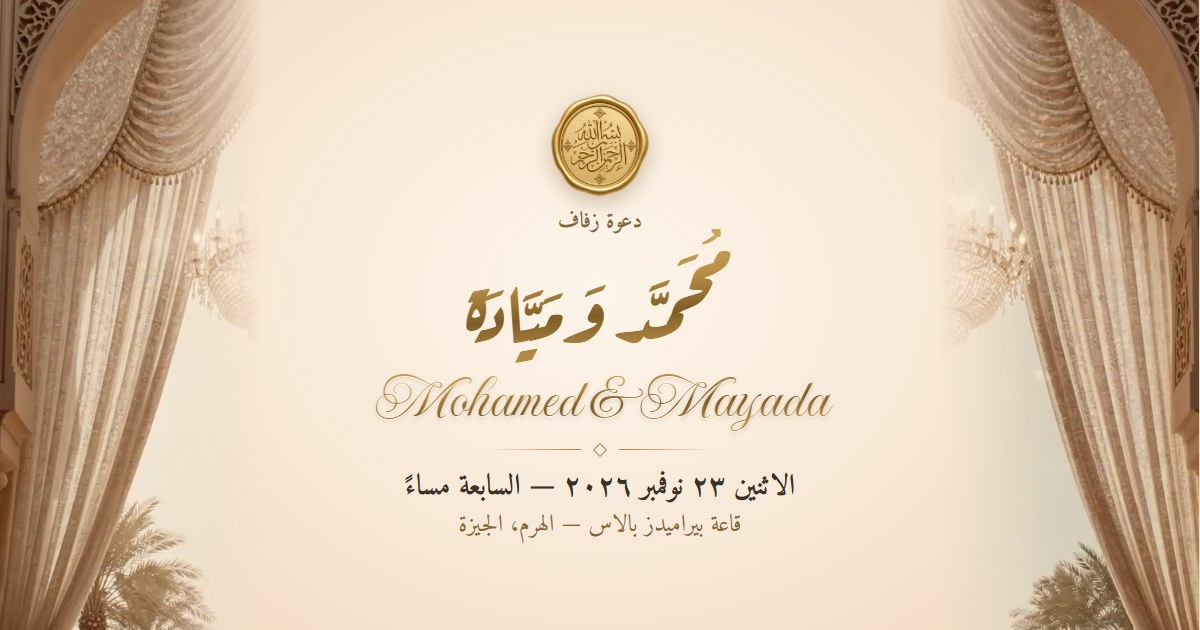
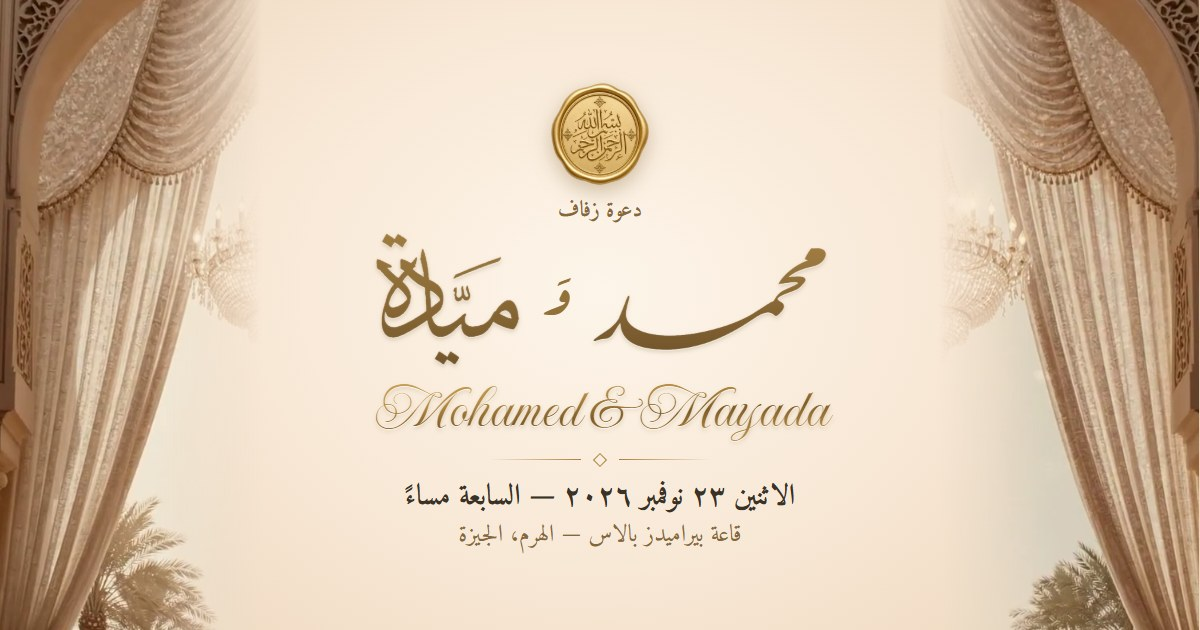
r1X0Neh بطلب المالك: اسم "محمد" واسم "ميادة" بالخط اليدوي من الصورتين اللي بعتهم بدل خط الرقعة — متقصوصين من غير خلفية (ولوجو القناة اللي جنب ميادة اتشال)، متكبّرين 4x بحواف ناعمة، ولونهم دهبي زي كلام الدعوة. على الستاير (كبار، وبينهم "وَ") وفي كارت القوس، وكارت لينك المشاركة اتعمل من جديد بيهم. الإ
Claude-Session: https://claude.ai/code/session_01VKo1mDPNtVn8Qfu3XE46sB

diff --git a/custom-invitations/r1X0Neh.js b/custom-invitations/r1X0Neh.js
@@ -19,16 +19,19 @@ const NAMES = {
 
 // خانات القالب: [السيلكتور، عربي، إنجليزي]
 const R = (rec, f) => `#${rec} [field="${f}"]`;
+// أسامي الخط اليدوي (صور المالك 2026-11-09): متقصوصة من غير خلفية، متكبّرة 4x ودهبي زي كلام الدعوة (scratch r1/cal/cut.py)
+const IMG_MO = `<img class="r1-ni r1-ni-mo" src="${asset(`/custom/${SHORT}/mohamed.webp`)}" alt="محمد" decoding="async">`;
+const IMG_MA = `<img class="r1-ni r1-ni-ma" src="${asset(`/custom/${SHORT}/mayada.webp`)}" alt="ميادة" decoding="async">`;
 const FIELDS = [
   [R('rec2339662043', 'tn_text_1777183175514000001'), 'اضغط لفتح الدعوة', 'Tap to open'],
   // أول صفحة (الستاير): الاسمين وبينهم "و" / "&"، وتحتهم التاريخ والساعة
-  [R('rec2339662063', 'tn_text_1779566247730000001'), `<span class="r1-n">${NAMES.ar[0]}</span><span class="r1-and">وَ</span><span class="r1-n">${NAMES.ar[1]}</span>`, `<span class="r1-n">${NAMES.en[0]}</span><span class="r1-and">&amp;</span><span class="r1-n">${NAMES.en[1]}</span>`],
+  [R('rec2339662063', 'tn_text_1779566247730000001'), `<span class="r1-n">${IMG_MO}</span><span class="r1-and">وَ</span><span class="r1-n">${IMG_MA}</span>`, `<span class="r1-n">${NAMES.en[0]}</span><span class="r1-and">&amp;</span><span class="r1-n">${NAMES.en[1]}</span>`],
   [R('rec2339662063', 'tn_text_1779566247730000004'), '', ''],
   [R('rec2339662063', 'tn_text_1779566247730000003'), 'الاثنين ٢٣ نوفمبر ٢٠٢٦', '23 November 2026'],
   [R('rec2339662063', 'tn_text_1779626065755000001'), 'الساعة السابعة مساءً', 'Monday · 7:00 PM'],
   // كارت القوس (تحت ختم البسملة)
   [R('rec2339662083', 'tn_text_1779624381838000001'),
-    `<span class="r1-arch-n">${NAMES.ar[0]} و${NAMES.ar[1]}</span><br><br>يتشرفان بدعوتكم<br>لحضور حفل زفافهما<br><br>يوم الاثنين<br>٢٣ نوفمبر ٢٠٢٦<br>الساعة السابعة مساءً<br><br>في`,
+    `<span class="r1-arch-n">${IMG_MO.replace('r1-ni ', 'r1-ai ')}<b>وَ</b>${IMG_MA.replace('r1-ni ', 'r1-ai ')}</span><br><br>يتشرفان بدعوتكم<br>لحضور حفل زفافهما<br><br>يوم الاثنين<br>٢٣ نوفمبر ٢٠٢٦<br>الساعة السابعة مساءً<br><br>في`,
     `${NAMES.en[0]} &amp; ${NAMES.en[1]}<br><br>request the pleasure<br>of your company<br>at their wedding<br><br>on Monday<br>23 November 2026<br>at 7:00 PM<br><br>at`],
   [R('rec2339662083', 'tn_text_1779472210551000005'), 'بيراميدز بالاس', 'Pyramids Palace'],
   [R('rec2339662093', 'tn_text_1771277026942000001'), 'اقترب موعد الفرح', 'The Celebration Begins'],
@@ -143,7 +146,12 @@ html.r1-arabic .r1-n{display:block;font:700 70px/1.32 'Aref Ruqaa',serif;white-s
 html.r1-arabic .r1-and{display:block;font:700 34px/1.1 'Aref Ruqaa',serif;margin:-6px 0 -4px}
 html.r1-arabic #rec2339662063 [field="tn_text_1779566247730000003"],html.r1-arabic #rec2339662063 [field="tn_text_1779626065755000001"]{font-size:20px!important;line-height:1.4!important;font-weight:700!important;transform:translateY(var(--r1-dy,62px))}
 html.r1-arabic #rec2339662083 [field="tn_text_1779624381838000001"]{font-size:20px!important;line-height:1.6!important;font-weight:400!important}
-html.r1-arabic .r1-arch-n{font:700 34px/1.7 'Aref Ruqaa',serif;color:${GOLD}}
+html.r1-arabic .r1-arch-n{display:inline-flex;align-items:center;justify-content:center;gap:10px;direction:rtl;font:700 26px/1 'Aref Ruqaa',serif;color:${GOLD};margin:4px 0}
+.r1-ai{display:block;width:auto}.r1-ai.r1-ni-mo{height:44px}.r1-ai.r1-ni-ma{height:56px}
+/* صور الأسامي على الستاير */
+html.r1-arabic .r1-n{line-height:0!important}
+.r1-ni{display:block;margin:0 auto;width:auto;max-width:78vw;filter:drop-shadow(0 1px 0 rgba(255,250,240,.55))}
+.r1-ni-mo{height:98px}.r1-ni-ma{height:138px}
 html.r1-arabic #rec2339662083 [field="tn_text_1779472210551000005"]{font-weight:700!important}
 html.r1-arabic #rec2355542373 [field="tn_text_1779544773135"],html.r1-arabic #rec2355574603 [field="tn_text_1780767449362000001"],html.r1-arabic #rec2355574603 [field="tn_text_1780767518772000005"]{font-size:19px!important;line-height:1.55!important}
 html.r1-arabic #venueOpenMapLink{font-family:'El Messiri','Amiri',sans-serif!important;letter-spacing:0!important}
